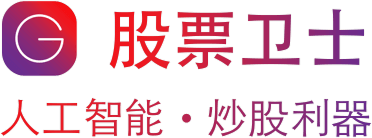
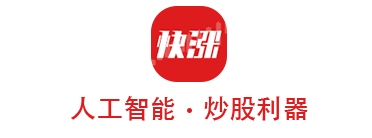
base framework

diff --git a/js/fw/init/Header.js b/js/fw/init/Header.js
@@ -28,7 +28,6 @@ class Initializer extends InitBase {
         meta.attr(attr);
         this.head.append(meta);
     }
-
     execute() {
         this.title(__config.appname);
         this.meta({'charset': 'utf-8'});
@@ -48,6 +47,14 @@ class Initializer extends InitBase {
         this.meta({
             'name': 'apple-mobile-web-app-capable',
             'content': 'yes'
+        });
+        this.meta({
+            'name': 'keywords',
+            'content': '快涨、快涨APP、炒股APP、炒股软件、票炒股开户、炒股利器、搜股科技、搜股（北京）科技有限公司、快涨人工智能、证券大数据、全网影响力、投资、理财、证券、自选股、研究员、大数据炒股'
+        });
+        this.meta({
+            'name': 'description',
+            'content': '快涨是一款基于金融大数据和人工智能技术的服务股民的移动端APP产品。主要功能有反映股票活跃程度的『热股榜』；反映研究员最新荐股及该研究员荐股准确度的『研究员排名』；有反映当天市场热点的『头条内参』；有包括但不限于微博，微信，股吧，贴吧，论坛，新闻等全渠道财经资讯的『个股异动监测』。在满足股民看盘、选股、交易的同时、围绕头条舆情监控、题材消息追踪、买卖预警三方面特色内容，打造股市机构内参、股票异动情报。服务热线：021-80125603'
         });
     }
 }

diff --git a/css/layout.scss b/css/layout.scss
@@ -137,12 +137,23 @@
 }
 .home-banner2 {
   background-image: url('../img/banner3.jpg');
-  .title {
+  /*.title {
     width: 7.84rem;
     height: 1.78rem;
     background: url('../img/huiyuan.png') center center / 7.84rem 1.78rem no-repeat;
     position: relative;
     margin: 1.62rem auto 1.45rem auto;
+    animation-name:step3;
+    -webkit-animation:step3 0.4s linear 0s normal none;
+    -moz-animation:step3 0.4s linear 0s normal none;
+    animation:step3 0.4s linear 0s normal none;
+  }*/
+  .title {
+    width: 3.72rem;
+    height: 1.38rem;
+    background: url('../img/biaoti1.png') center center / 3.72rem 1.38rem no-repeat;
+    position: relative;
+    margin: 2.02rem auto 1.45rem auto;
     animation-name:step3;
     -webkit-animation:step3 0.4s linear 0s normal none;
     -moz-animation:step3 0.4s linear 0s normal none;

diff --git a/js/features/common/footer/Footer.html b/js/features/common/footer/Footer.html
@@ -18,7 +18,7 @@
         <div class='item'>
             <ul>
                 <li>联系方式</li>
-                <li>400-811-0360</li>
+                <li>021-80125603</li>
                 <li>媒体合作:021-80129522</li>
                 <li>hr@sogukj.com</li>
             </ul>
@@ -45,7 +45,7 @@
         <div class='media'>
             <a href='#' class='wechat'></a>
             <a href='#' class='weibo'></a>
-            <a href='#' class='qq'></a>
+            <a href='http://mh5.gw.stockalert.cn/spitslot' class='qq'></a>
         </div>
     </div>
 </div>

diff --git a/js/features/common/header/Header.html b/js/features/common/header/Header.html
@@ -6,7 +6,7 @@
                 <a href="#/home" ng-class="{active: route === 'home'}">首页</a>
             </li>
             <li ng-click="activeRoute('app')">
-                <a href="#/app" ng-class="{active: route === 'app'}">股票卫士</a>
+                <a href="#/app" ng-class="{active: route === 'app'}">快涨</a>
             </li>
             <li ng-click="activeRoute('cheats')">
                 <a href="#/cheats" ng-class="{active: route === 'cheats'}">股票秘籍</a>

diff --git a/etc/config.js b/etc/config.js
@@ -7,4 +7,4 @@
  *
  **/
 
-export default {appname: 'sogukj', version: '1.0.0'};
+export default {appname: '快涨：为您的股票投资保驾护航', version: '1.0.0'};

diff --git a/js/features/about/partials/about.html b/js/features/about/partials/about.html
@@ -59,7 +59,7 @@
       </li>
       <li>
         <h3>电话</h3>
-        <p>4008-110-360</p>
+        <p>021-80125603</p>
       </li>
     </ul>
   </div>
